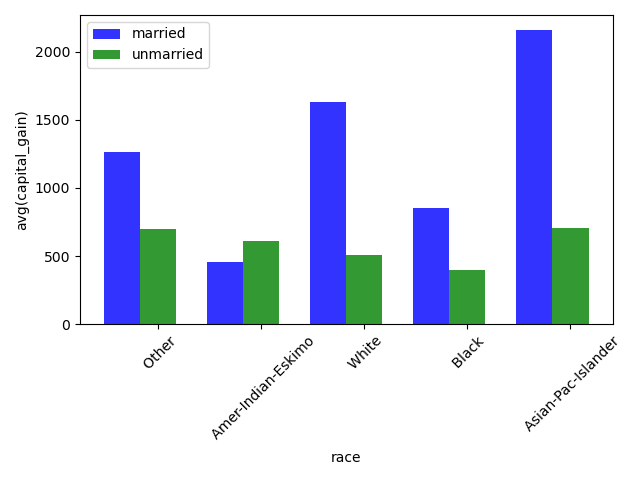
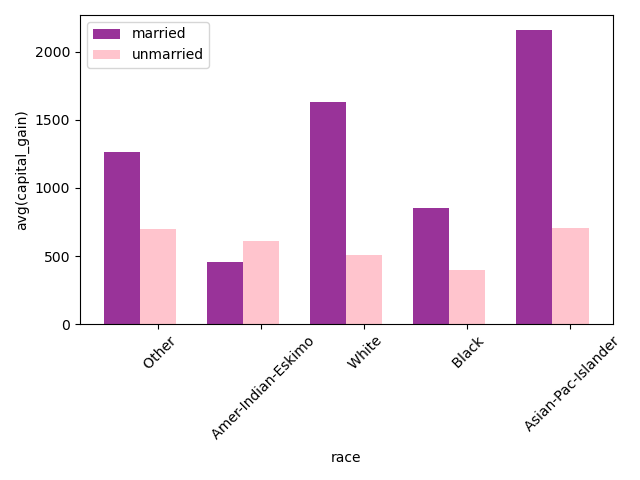
Time for pruning

diff --git a/code/utils.py b/code/utils.py
@@ -139,12 +139,12 @@ def display_Graph(target_data, ref_data, view_tuple):
 
     rects1 = plt.bar(index, means_target, bar_width,
                      alpha=opacity,
-                     color='b',
+                     color='#800080',
                      label='married')
 
     rects2 = plt.bar(index + bar_width, means_ref, bar_width,
                      alpha=opacity,
-                     color='g',
+                     color='#FFB6C1',
                      label='unmarried')
 
     plt.xlabel('{}'.format(group_by))

diff --git a/code/pruning.py b/code/pruning.py
@@ -2,8 +2,11 @@ import psycopg2
 import numpy as np
 import pandas as pd
 import utils
+import time
 
-N = 5 #Number of phases
+start_time = time.time()
+
+N = 10 #Number of phases
 delta = 0.05
 top = 5
 
@@ -46,3 +49,5 @@ for i in range(N):
             
 print('Total number of pruned views: {}.'.format(len(views)-len(result_views)))
 utils.top_5_AggViews([r[0] for r in views_ranking] ,views)
+elapsed_time = time.time() - start_time
+print(elapsed_time)
